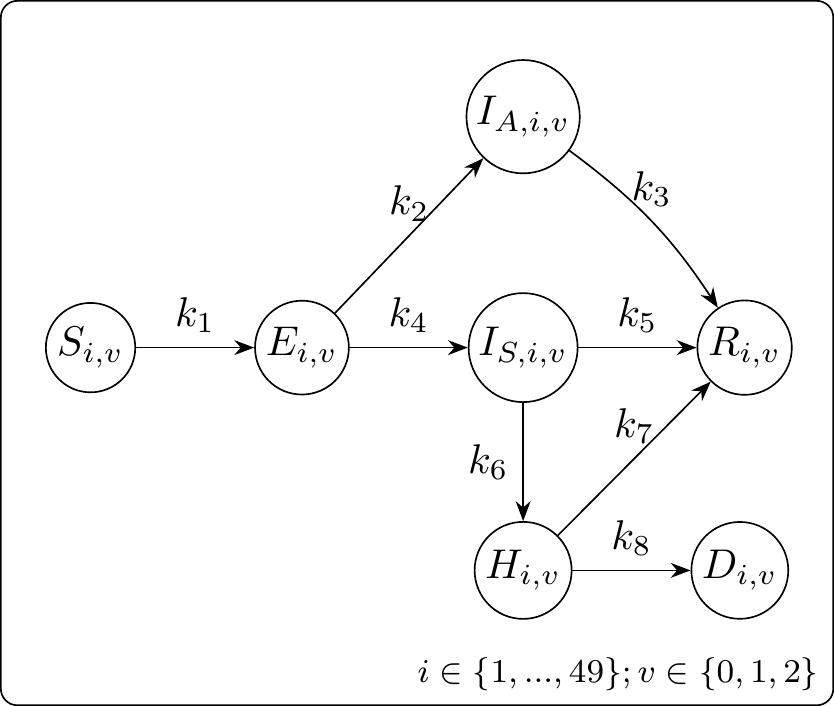
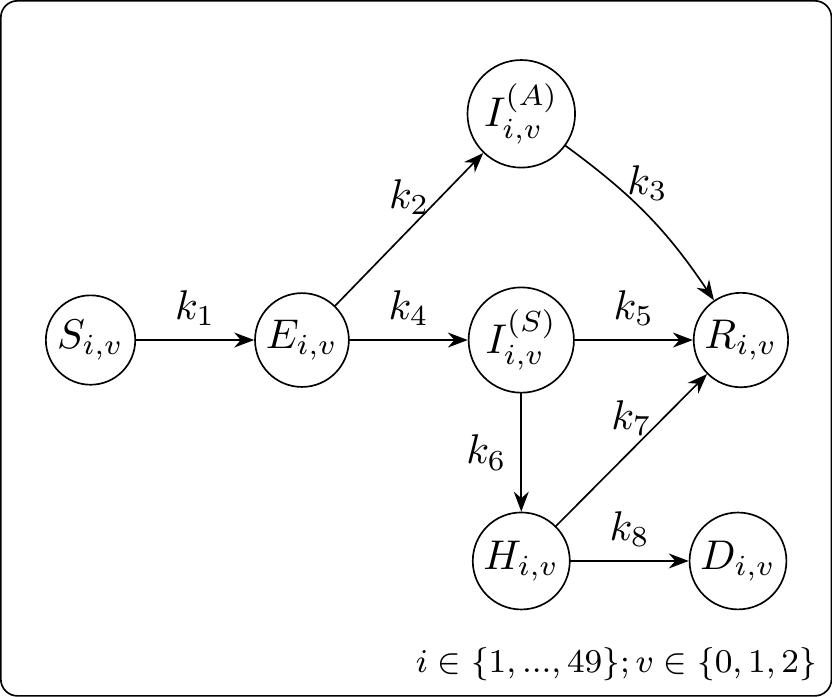
wip

diff --git a/README.md b/README.md
@@ -239,14 +239,14 @@ For HICs, we have parameters 7.97 and 6.87.
 
 <div class="figure">
 
-<img src="README_files/figure-gfm/statetransitions-1.png" alt="Disease state transitions. $S$: susceptible. $E$: exposed. $I_A$: asymptomatic infectious. $I_S$: symptomatic infectious. $H$: hospitalised. $R$: recovered. $D$: died. $i$: stratum. $v$: vaccination status."  />
+<img src="README_files/figure-gfm/statetransitions-1.png" alt="Disease state transitions. $S$: susceptible. $E$: exposed. $I^{(A)}$: asymptomatic infectious. $I^{(S)}$: symptomatic infectious. $H$: hospitalised. $R$: recovered. $D$: died. $i$: stratum. $v$: vaccination status."  />
 
 <p class="caption">
 
 Figure 3.1: Disease state transitions. $S$: susceptible. $E$: exposed.
-$I_A$: asymptomatic infectious. $I_S$: symptomatic infectious. $H$:
-hospitalised. $R$: recovered. $D$: died. $i$: stratum. $v$: vaccination
-status.
+$I^{(A)}$: asymptomatic infectious. $I^{(S)}$: symptomatic infectious.
+$H$: hospitalised. $R$: recovered. $D$: died. $i$: stratum. $v$:
+vaccination status.
 
 </p>
 
@@ -261,14 +261,14 @@ The rate of infection of susceptible individuals, $k_1(v,t)$, is defined
 as
 
 $$\begin{equation}
-k_1(v,t) = \eta_{A,v}\rho(t)\beta\left(D(x)\cdot I^{(eff)}\right)
+k_1(v,t) = \eta_{A,v}\rho(t)\beta\left(D(x)\cdot I^{(eff)}(t)\right)
 \qquad(3.1)
 \end{equation}$$
 
 with
 
 ``` math
- I^{(eff)}=\sum_{v=0}^2(\epsilon (1-p_3)I_{A,v}+(1-p_4)I_{S,v}). 
+ I^{(eff)}(t)=\sum_{v=0}^2(\epsilon (1-p_3(t))I_{v}^{(A)}(t)+(1-p_4(t))I_{v}^{(S)}(t)). 
 ```
 
 Here, $\eta_{A,v}$ is the relative probability to be infected given
@@ -279,10 +279,10 @@ configuration $x$; $\epsilon$ is the reduction in infectiousness from
 asymptomatic relative to symptomatic individuals; $p_3$ and $p_4$ are
 the proportions of asymptomatic and symptomatic infectiousness averted,
 respectively, due to self isolating; and $I_{\cdot,\cdot}$ is the vector
-of number of infectious asymptomatic ($I_{A,\cdot}$) and symptomatic
-($I_{S,\cdot}$) people who are unvaccinated ($I_{\cdot,0}$), vaccinated
-with the BPSV ($I_{\cdot,1}$), or vaccinated with the specific vaccine
-($I_{\cdot,2}$).
+of number of infectious asymptomatic ($I_{\cdot}^{(A)}$) and symptomatic
+($I_{\cdot}^{(S)}$) people who are unvaccinated ($I_{0}^{(\cdot)}$),
+vaccinated with the BPSV ($I_{1}^{(\cdot)}$), or vaccinated with the
+specific vaccine ($I_{2}^{(\cdot)}$).
 
 ``` math
  k_2 = (1-p_S)/\sigma 
@@ -305,45 +305,47 @@ is the rate of recovery from asymptomatic infection;
 is the rate of symptom onset;
 
 ``` math
-k_5 =  (1-p_H) / \gamma_I 
+k_5(i,v) =  (1-p_H(i,v)) / \gamma_I(i,v)
 ```
 
-is the rate of recovery from symptomatic infection, where $p_H$ is the
-probability to be hospitalised, and
-$\gamma_I = p_H\gamma_H + (1-p_H)\gamma_R$ is the expected time to be in
-compartment $I_S$: $\gamma_H$ is the expected duration before
-hospitalisation and $\gamma_R$ is the expected duration before recovery.
+is the rate of recovery from symptomatic infection, where $p_H(v)$ is
+the probability to be hospitalised, and
+$\gamma_I(i,v) = p_H(i,v)\gamma_H + (1-p_H(i,v))\gamma_R$ is the
+expected time to be in compartment $I^{(S)}$: $\gamma_H$ is the expected
+duration before hospitalisation and $\gamma_R$ is the expected duration
+before recovery.
 
 ``` math
-p_H=\eta_{H,v}\hat{p}_H
+p_H(i,v)=\eta_{H,v}\hat{p}_H(i)
 ```
 
-is the baseline probability to be hospitalised ($`\hat{p}_H`$) adjusted
-by the vaccine effect protecting against hospitalisation
+is the baseline probability to be hospitalised ($`\hat{p}_H(i)`$)
+adjusted by the vaccine effect protecting against hospitalisation
 ($`\eta_{H,v}`$). Then
 
 ``` math
-k_6 = p_H/\gamma_I
+k_6(i,v) = p_H(i,v)/\gamma_I(i,v)
 ```
 
 is the rate of hospitalisation following symptomatic infection.
 
 ``` math
-k_7 = (1-p_D) / \lambda_H
+k_7(i,H) = (1-p_D(i,H)) / \lambda_H(i,H)
 ```
 
 is the rate of recovery of hospitalised patients, where
-$`p_D=\hat{p}_Df_H(H)`$ is the baseline probability to die given
+$`p_D(i,H)=\hat{p}_D(i)f_H(H)`$ is the baseline probability to die given
 hospitalisation, adjusted by a factor encoding the increase in fatality
 rate as hospital occupancy increases,
 $`f_H(H)=\max\{1,1+1.87(H-H_{\text{max}})/H_{\text{max}}\}`$.
-$\lambda_H = p_D\lambda_D + (1-p_D)\lambda_R$ is the expected time to be
-in compartment $H$: $\lambda_D$ is the expected duration before death
-and $\lambda_R$ is the expected duration before recovery. $p_D$ is the
-probability to die given hospitalisation. Finally,
+$\lambda_H(i,H) = p_D(i,H)\lambda_D + (1-p_D(i,H))\lambda_R$ is the
+expected time to be in compartment $H$: $\lambda_D$ is the expected
+duration before death and $\lambda_R$ is the expected duration before
+recovery. $p_D(i,H)$ is the probability to die given hospitalisation.
+Finally,
 
 ``` math
-k_8 = p_D/\lambda_H
+k_8(i,H) = p_D(i,H)/\lambda_H(i,H)
 ```
 
 is the rate of death following hospitalisation.
